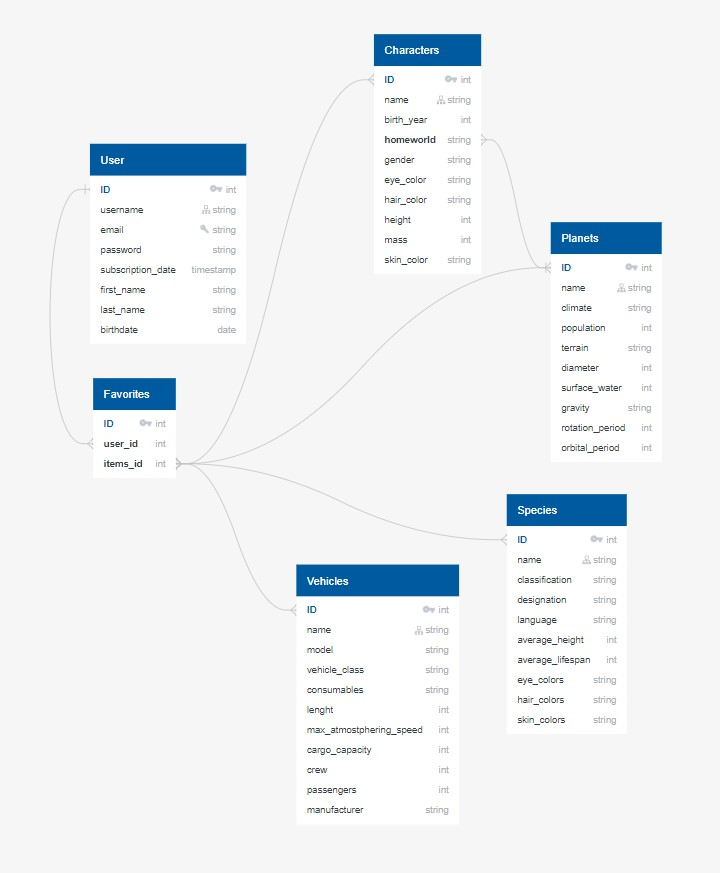
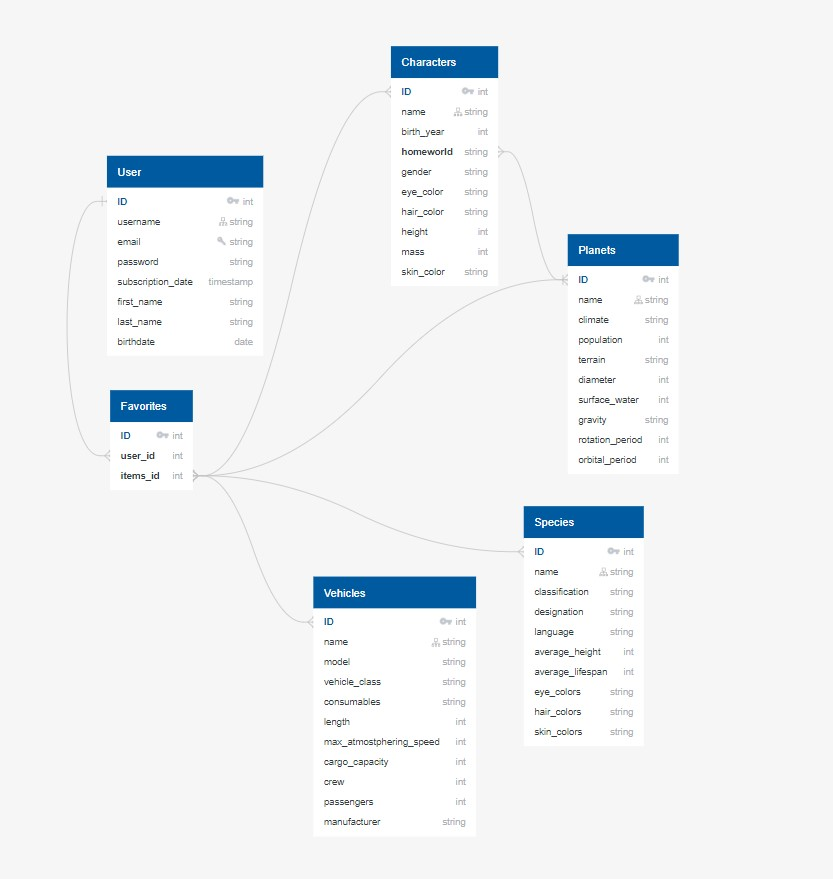
fixing

diff --git a/src/models.py b/src/models.py
@@ -82,7 +82,7 @@ class Vehicles(Base):
     model = Column(String(250), index= True)
     vehicle_class = Column(String(250))
     consumables = Column(String(250))
-    lenght = Column(Integer)
+    length = Column(Integer)
     max_atmostphering_speed = Column(Integer)
     cargo_capacity = Column(Integer)
     crew = Column(Integer)
